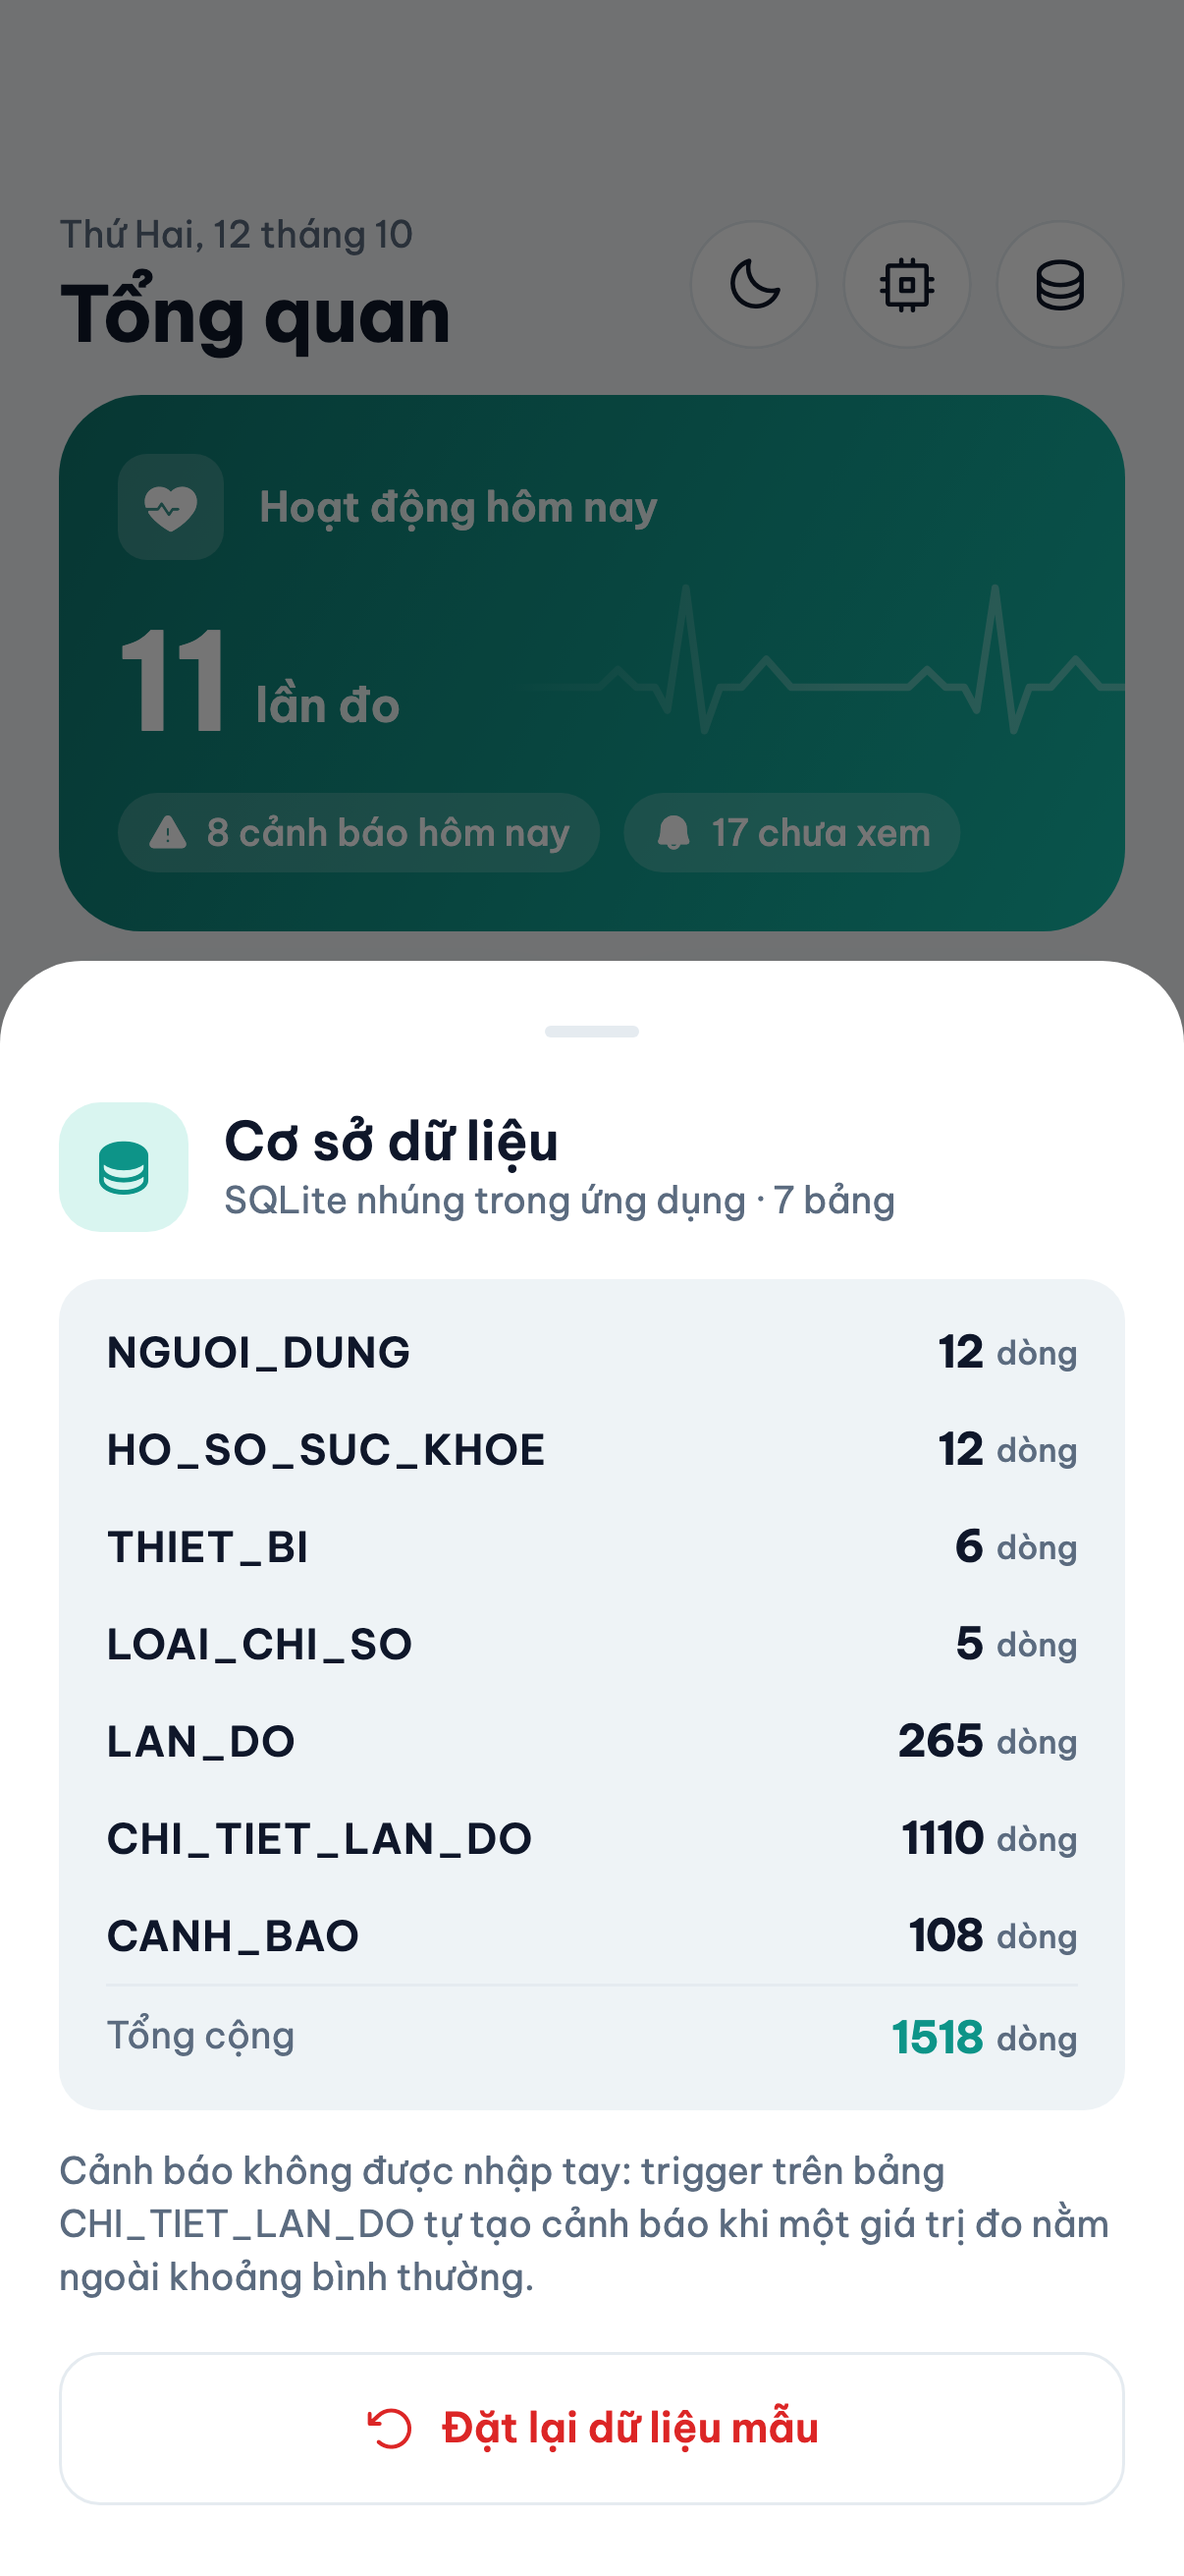
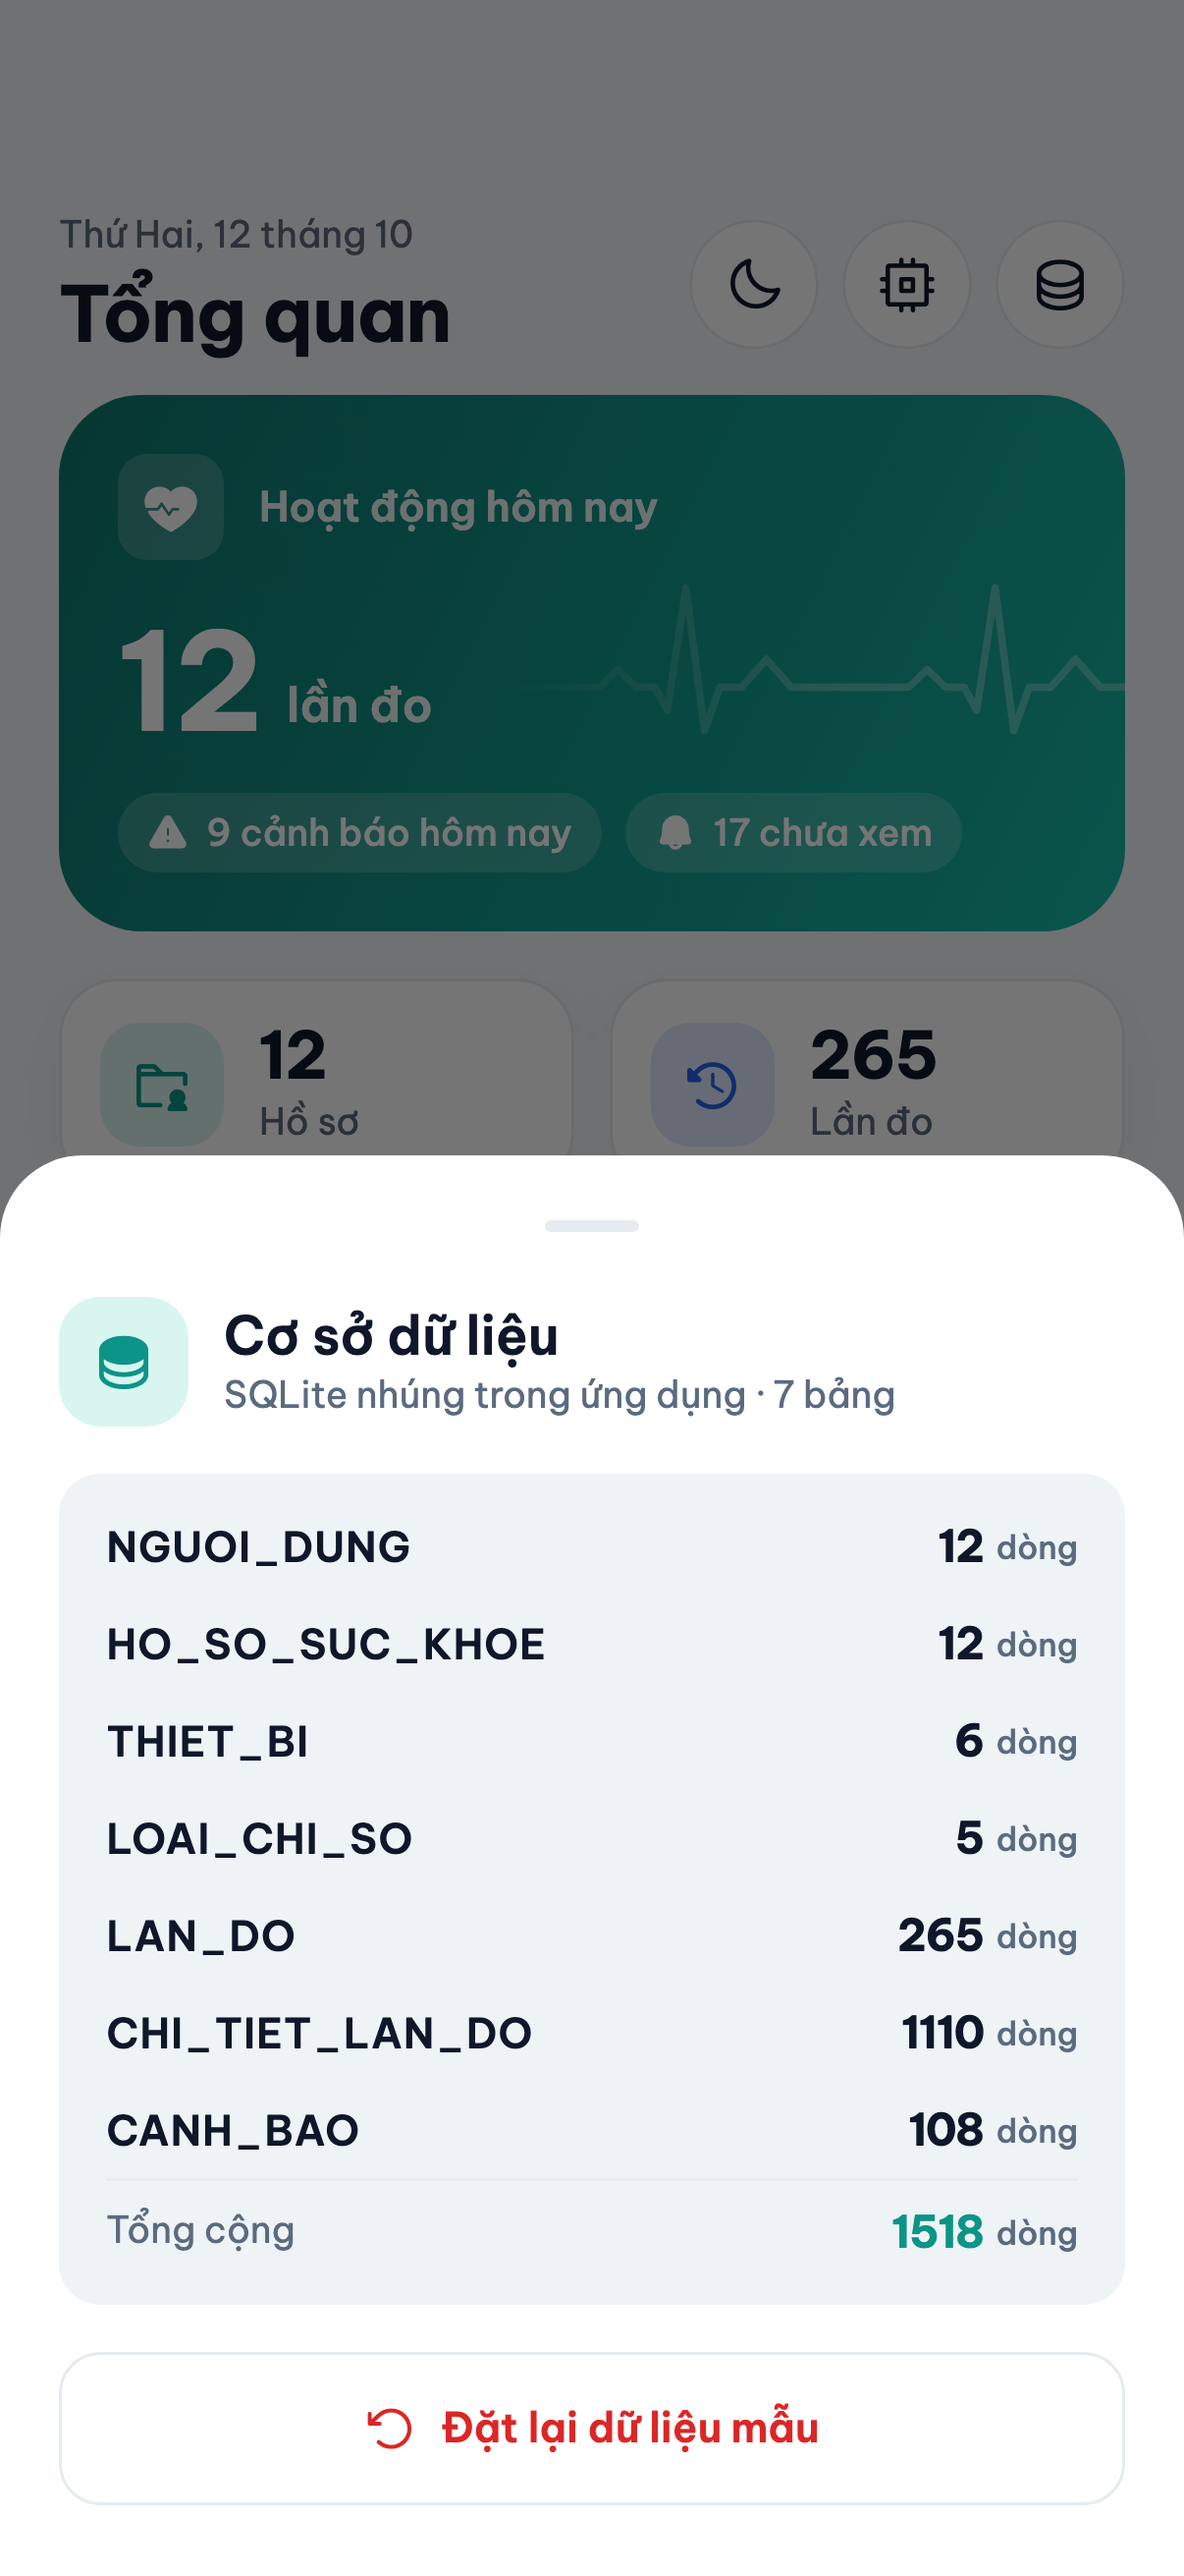
fix(app): bỏ dòng chú thích về trigger trong bảng Cơ sở dữ liệu
Câu "Cảnh báo không được nhập tay: trigger trên bảng CHI_TIET_LAN_DO…" là
chi tiết kỹ thuật, không cần hiện với người dùng. Chụp lại ảnh màn hình
tương ứng và nâng phiên bản lên 0.2.1.

diff --git a/lib/features/tong_quan/presentation/widgets/co_so_du_lieu_sheet.dart b/lib/features/tong_quan/presentation/widgets/co_so_du_lieu_sheet.dart
@@ -139,12 +139,6 @@ class _CoSoDuLieuSheetState extends State<_CoSoDuLieuSheet> {
               ],
             ),
           ),
-          const SizedBox(height: AppSpacing.md),
-          Text(
-            'Cảnh báo không được nhập tay: trigger trên bảng CHI_TIET_LAN_DO tự '
-            'tạo cảnh báo khi một giá trị đo nằm ngoài khoảng bình thường.',
-            style: context.text.bodySmall,
-          ),
           const SizedBox(height: AppSpacing.lg),
           OutlinedButton.icon(
             onPressed: _datLai,
